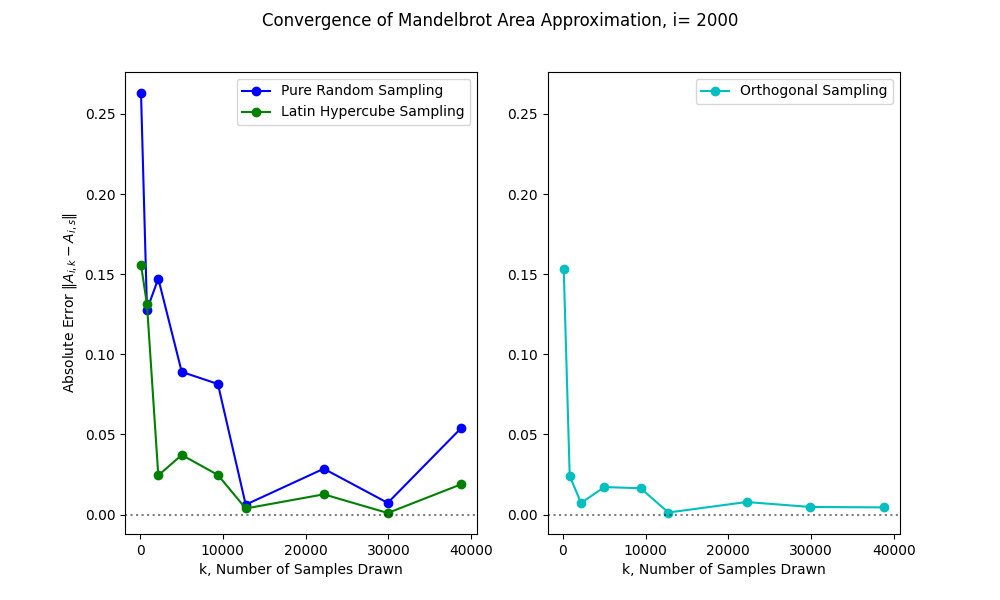
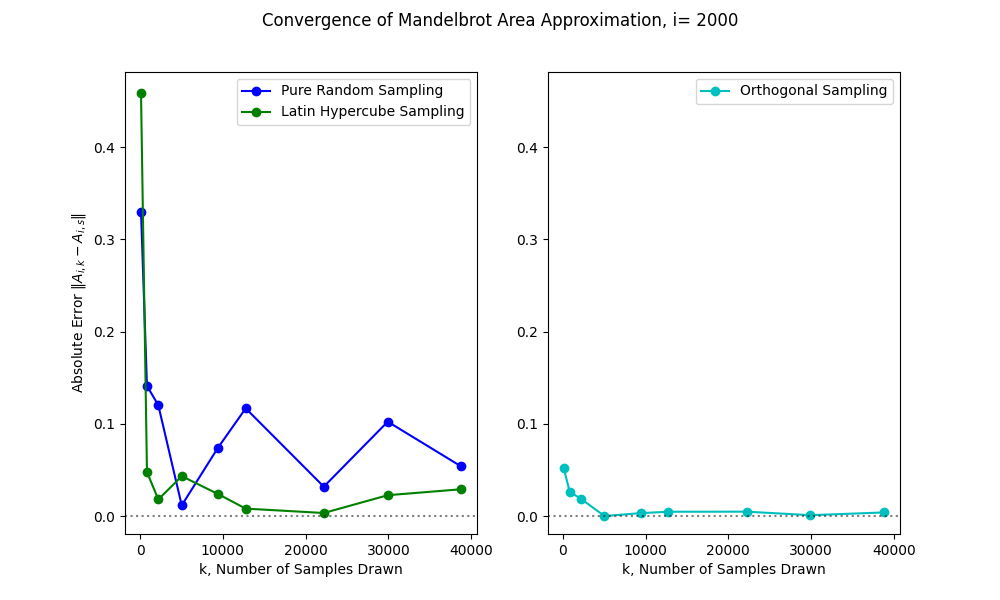
mean and std plotting

diff --git a/convergence_analyses.py b/convergence_analyses.py
@@ -45,16 +45,22 @@ def gen_square_primes():
 
         q += 1
 
+
 def get_j_convergence():
     filepath = "convergence-j-stable2_test.csv"
 
     # if not os.path.isfile(filepath):
-    # Generate data
-    num_it, res = simulate_j_convergence()
-    # Save to pandas
-    df = pd.DataFrame(res, columns=["Pure Random", "Latin Hypercube", "Orthogonal"])
-    # df = pd.DataFrame(res, columns=["Pure Random", "Latin Hypercube"])
-    df["Number of Iterations"] = num_it
+    j_data = []
+    n_simulations = 10
+
+    for i in range(n_simulations):
+        # Generate data
+        num_it, res = simulate_j_convergence()
+        j_data.append(res)
+        # Save to pandas
+        df = pd.DataFrame(res, columns=["Pure Random", "Latin Hypercube", "Orthogonal"])
+        # df = pd.DataFrame(res, columns=["Pure Random", "Latin Hypercube"])
+        df["Number of Iterations"] = num_it
     df.to_csv(filepath, index=False)
     # else:
     #     # Read from csv
@@ -64,17 +70,24 @@ def get_j_convergence():
     #     # res = df[["Pure Random", "Latin Hypercube", "Orthogonal"]]
     #     res = df[["Pure Random", "Latin Hypercube"]]
     #     res = res.to_numpy()
-    return num_it, res
+    return num_it, j_data
+
 
 def get_s_convergence():
     filepath = "convergence-s-data-large.csv"
     # if not os.path.isfile(filepath):
-    # Simulate
-    samples, square_primes, res = simulate_s_convergence()
-    # Save to pandas
-    df = pd.DataFrame(res, columns=["Pure Random", "Latin Hypercube", "Orthogonal"])
-    df["samples"] = samples
-    df["square-prime-samples"] = square_primes
+    s_data = []
+    n_simulattions = 10
+
+    for i in range(n_simulattions):
+        # Simulate
+        print(f"simulation {i}")
+        samples, square_primes, res = simulate_s_convergence()
+        s_data.append(res)
+        # Save to pandas
+        df = pd.DataFrame(res, columns=["Pure Random", "Latin Hypercube", "Orthogonal"])
+        df["samples"] = samples
+        df["square-prime-samples"] = square_primes
     df.to_csv(filepath, index=False)
     # else :
     #     # Read from csv
@@ -85,11 +98,12 @@ def get_s_convergence():
     #     square_primes = square_primes.to_numpy()
     #     res = df[["Pure Random", "Latin Hypercube", "Orthogonal"]]
     #     res = res.to_numpy()
-    return samples, square_primes, res
+    return samples, square_primes, s_data
+
 
 def simulate_j_convergence():
     # Init values
-    num_it = [50, 100, 150, 200, 400, 800, 1000, 1200, 1400, 1600, 1800, 2000, 2200, 2400, 2600, 2800, 3000]
+    num_it = [50, 100, 150, 200, 400, 800, 1000, 1200, 1400, 1600, 1800, 2000]
     s = int(18769)
     sampling_methods = [pure_random_sampler, lh_sampler, orthogonal_sampler]
     res = np.zeros((len(num_it), len(sampling_methods)))
@@ -108,34 +122,43 @@ def simulate_j_convergence():
 
     return num_it, res
 
-def plot_j_convergence(num_it, res):
+
+def plot_j_convergence(num_it, j_data):
     """Plot the convergence of Mandelbrot area estimation for increasing number of iterations"""
-    plt.figure(figsize=(10, 6))
-    plt.subplot(121)
-    plt.title(f"s = 200000")
-    plt.plot(num_it[:-1], abs(res[-1, 0] - res[:-1, 0]), "bo-", label=f"Pure random sampling")
-    plt.plot(num_it[:-1], abs(res[-1, 1] - res[:-1, 1]), "go-", label=f"Latin Hypercube sampling")
+    plt.title("s = 18769")
+
+    random_data = []
+    lh_data = []
+    ot_data = []
+    for res in j_data:
+        random_data.append(abs(res[-1, 0] - res[:-1, 0]))
+        lh_data.append(abs(res[-1, 1] - res[:-1, 1]))
+        ot_data.append(abs(res[-1, 2] - res[:-1, 2]))
+    
+    random_mean = np.mean(random_data, axis=0)
+    random_std = np.std(random_data, axis=0)
+    
+    lh_mean = np.mean(lh_data, axis=0)
+    lh_std = np.std(lh_data, axis=0)
+
+    ot_mean = np.mean(ot_data, axis=0)
+    ot_std = np.std(ot_data, axis=0)
+
+    plt.plot(num_it[:-1], random_mean, "bo-", label=f"Pure random sampling")
+    plt.plot(num_it[:-1], lh_mean, "go-", label=f"Latin Hypercube sampling")
+    plt.plot(num_it[:-1], ot_mean, "co-", label="Orthogonal sampling")
+
+    plt.fill_between(num_it[:-1], random_mean+random_std, random_mean-random_std, alpha=0.35, color="b", linewidth=0)
+    plt.fill_between(num_it[:-1], lh_mean+lh_std, lh_mean-lh_std, alpha=0.35, color="g", linewidth=0)
+    plt.fill_between(num_it[:-1], ot_mean+ot_std, ot_mean-ot_std, alpha=0.35, color="c", linewidth=0)
+
     plt.axhline(0, color="black", alpha=0.5, linestyle="dotted")
+
     plt.ylabel("Absolute Error $\Vert A_{i,s} - A_{j,s} \Vert$")
     plt.xlabel("j, Number of Iterations")
     plt.legend()
-    ax1 = plt.gca()
-    ymin1, ymax1 = plt.ylim()
-    plt.subplot(122)
-    plt.plot(num_it[:-1], abs(res[-1, 2] - res[:-1, 2]), "co-", label="Orthogonal sampling")
-    plt.axhline(0, color="black", alpha=0.5, linestyle="dotted")
-    ax2 = plt.gca()
-    ymin2, ymax2 = plt.ylim()
-    plt.xlabel("j, Number of Iterations")
-    plt.legend()
-    plt.title("s = 18769")
-    # Set axes equal
-    ax1.set_ylim(min(ymin1, ymin2), max(ymax1, ymax2))
-    ax2.set_ylim(min(ymin1, ymin2), max(ymax1, ymax2))
-    plt.suptitle(f"Convergence of Mandelbrot Area Approximation, i= {num_it[-1]}")
     plt.savefig("Convergence-j.png")
     plt.show()
-
 
 
 def plot_s_convergence(s, square_primes, res):
@@ -167,8 +190,9 @@ def plot_s_convergence(s, square_primes, res):
 
 def simulate_s_convergence():
     # Init number of samples
-    s = [10e2, 10e3, 10e4, 20e4, 40e4, 60e4, 80e4, 10e5, 20e5, 40e5]  # must be square of prime number for othogonal sampler
-
+    # s = [10e2, 10e3, 10e4, 20e4, 40e4, 60e4, 80e4, 10e5, 20e5, 40e5]  # must be square of prime number for othogonal sampler
+    s = [10e2, 10e3, 10e4, 20e4]
+    
     # Init number of samples for orthogonal sampler - have to be square prime numbers!
     square_primes = generate_square_primes(s)
     assert len(s) == len(square_primes)
@@ -210,11 +234,37 @@ def generate_square_primes(s):
     return square_primes
 
 
-def plot_A_convergence(samples, square_primes, res):
+def plot_A_convergence(samples, square_primes, s_data):
     plt.axhline(MANDEL_AREA, color="black", linestyle="dashed", label="True Value")
-    plt.plot(square_primes, res[:, 0], "bo-", label="Pure Random Sampling")
-    plt.plot(square_primes, res[:, 1], "go-", label="Latin Hypercube Sampling")
-    plt.plot(square_primes, res[:,2], "co-", label="Orthogonal Sampling")
+
+    random_data = []
+    lh_data = []
+    ot_data = []
+    for res in s_data:
+        random_data.append(res[:, 0])
+        lh_data.append(res[:, 1])
+        ot_data.append(res[:, 2])
+
+    random_mean = np.mean(random_data, axis=0)
+    random_std = np.std(random_data, axis=0)
+    
+    lh_mean = np.mean(lh_data, axis=0)
+    lh_std = np.std(lh_data, axis=0)
+
+    ot_mean = np.mean(ot_data, axis=0)
+    ot_std = np.std(ot_data, axis=0)
+
+    plt.plot(square_primes, random_mean, "bo-", label=f"Pure random sampling")
+    plt.plot(square_primes, lh_mean, "go-", label=f"Latin Hypercube sampling")
+    plt.plot(square_primes, ot_mean, "co-", label="Orthogonal sampling")
+
+    plt.fill_between(square_primes, random_mean+random_std, random_mean-random_std, alpha=0.35, color="b", linewidth=0)
+    plt.fill_between(square_primes, lh_mean+lh_std, lh_mean-lh_std, alpha=0.35, color="g", linewidth=0)
+    plt.fill_between(square_primes, ot_mean+ot_std, ot_mean-ot_std, alpha=0.35, color="c", linewidth=0)
+
+    # plt.plot(square_primes, res[:, 0], "bo-", label="Pure Random Sampling")
+    # plt.plot(square_primes, res[:, 1], "go-", label="Latin Hypercube Sampling")
+    # plt.plot(square_primes, res[:,2], "co-", label="Orthogonal Sampling")
     plt.legend()
     plt.xlabel("k, Number of Samples")
     plt.ylabel("Estimated Area of Mandelbrot Set")
@@ -224,8 +274,8 @@ def plot_A_convergence(samples, square_primes, res):
 
 
 if __name__ == '__main__':
-    num_it, res = get_j_convergence()
-    plot_j_convergence(num_it, res)
-    samples, square_primes, res = get_s_convergence()
-    plot_s_convergence(samples, square_primes, res)
-    plot_A_convergence(samples, square_primes, res)
+    # num_it, j_data = get_j_convergence()
+    # plot_j_convergence(num_it, j_data)
+    samples, square_primes, s_data = get_s_convergence()
+    # plot_s_convergence(samples, square_primes, s_data)
+    plot_A_convergence(samples, square_primes, s_data)
